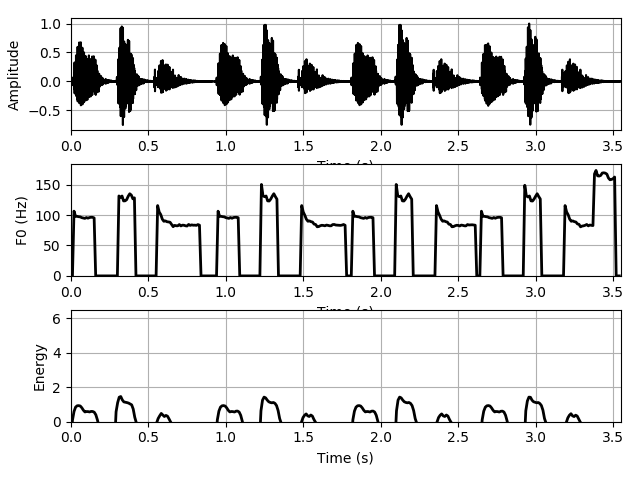
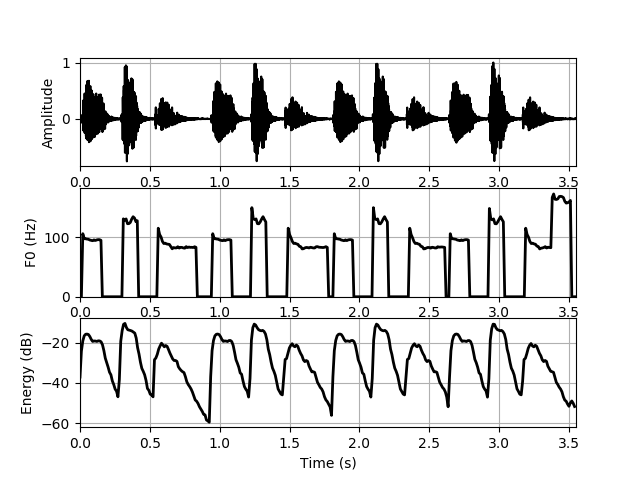
new prosody features

diff --git a/prosody/prosody.py b/prosody/prosody.py
@@ -1,9 +1,9 @@
 
 # -*- coding: utf-8 -*-
 """
-Created on Jul 21 2017
+Created on Jul 21 2017, Modified Apr 10 2018.
 
-@author: J. C. Vasquez-Correa, T. Arias-Vergara
+@author: J. C. Vasquez-Correa, T. Arias-Vergara, J. S. Guerrero
 
 
 Compute prosody features from continuous speech based on duration, fundamental frequency and energy.
@@ -27,7 +27,20 @@ Static matrix is formed with 13 features and include
 11. Pause rate (number of pauses per second)
 12. Average duration of pauses
 13. Standard deviation of duration of pauses
-
+14. Average tilt of fundamental frequency
+15. Tilt regularity of fundamental frequency
+16. Mean square error of the reconstructed F0 with a  1-degree polynomial
+17. (Silence duration)/(Voiced+Unvoiced durations)
+18. (Voiced duration)/(Unvoiced durations)
+19. (Unvoiced duration)/(Voiced+Unvoiced durations)
+20. (Voiced duration)/(Voiced+Unvoiced durations)
+21. (Voiced duration)/(Silence durations)
+22. (Unvoiced duration)/(Silence durations)
+23. Unvoiced duration Regularity
+24. Unvoiced energy Regularity
+25. Voiced duration Regularity
+26. Voiced energy Regularity
+27. Pause duration Regularity
 
 Dynamic matrix is formed with 13 features computed for each voiced segment and contains
 
@@ -279,7 +292,6 @@ def prosody_static(audio, flag_plots):
         fsp=len(F0)/t[-1]
         print(fsp)
         t2=np.arange(0.0, t[-1], 1.0/fsp)
-        print(len(t2), len(F0))
         if len(t2)>len(F0):
             t2=t2[:len(F0)]
         elif len(F0)>len(t2):
@@ -297,11 +309,10 @@ def prosody_static(audio, flag_plots):
             t3=t3[:len(logE)]
         elif len(logE)>len(t3):
             logE=logE[:len(t3)]
-        print(len(t3), len(logE))
         plt.plot(t3, logE, color='k', linewidth=2.0)
         plt.xlabel('Time (s)')
-        plt.ylabel('Energy')
-        plt.ylim([0,np.max(logE)+5])
+        plt.ylabel('Energy (dB)')
+        #plt.ylim([0,np.max(logE)])
         plt.xlim([0, t[-1]])
         plt.grid(True)
         plt.show()
@@ -310,6 +321,161 @@ def prosody_static(audio, flag_plots):
     F0varsemi=Hz2semitones(F0std**2)
 
     return F0, logE, np.mean(F0[F0!=0]), np.std(F0[F0!=0]), np.max(F0), 10*np.log10(np.mean(logE)), 10*np.log10(np.std(logE)), 10*np.log10(np.max(logE)), Vrate, avgdurv, stddurv, Silrate, avgdurs, stddurs, F0varsemi
+
+def intonation_duration(audio,size_step=0.01,minf0=60,maxf0=350,stol=0.150, flag_plots=False):
+    fs, data_audio=read(audio)
+    temp_filename_f0='../tempfiles/pitchtemp.txt'
+    temp_filename_vuv='../tempfiles/voicetemp.txt'
+
+    praat_functions.praat_vuv(audio,temp_filename_f0,temp_filename_vuv,time_stepF0=size_step, minf0=minf0, maxf0=maxf0)
+    pitch_z,ttotal = praat_functions.decodeF0(temp_filename_f0,len(data_audio)/fs,size_step)
+
+    #Slopes
+    slopes=[]
+    #buffers for voiced and unvoiced segments
+    vbuffer=[]
+    ubuffer=[]
+    #energy for total voiced and unvoiced segments
+    venergy=[]
+    uenergy=[]
+    #arrays for time-storing
+    voicedtimes=[]
+    unvoicedtimes=[]
+    silencetimes=[]
+    #flag for starting point voiced time and unvoiced time
+    startvoicedflag=True
+    startUNvoicedflag=True
+    F0_rec=np.zeros(len(pitch_z))
+    for i in range(0,len(pitch_z)-1):
+        #condition for voiced segment
+        if pitch_z[i]>=minf0 and pitch_z[i]<=maxf0:
+            vbuffer.append(pitch_z[i])
+            #voiced segment starting time
+            if (startvoicedflag):
+                t_start_venergy=ttotal[i]
+                startvoicedflag=False
+                frameF0start=i
+
+            if len(ubuffer)!=0:
+                samples = len(ubuffer)
+                t=float(samples/1/size_step)#unvoiced time based on F0 Fs and actual samples
+                #silence condition
+                if t>stol:
+                    silencetimes.append(t)
+                else:
+                    unvoicedtimes.append(t)
+                #clear the mess
+                ubuffer=[]
+                #final time for unvoiced
+                t_end_uenergy=ttotal[i]
+                startUNvoicedflag=True
+                #calculate segments with obtained times
+                n_start_unvoiced=fs*t_start_uenergy
+                n_end_unvoiced=fs*t_end_uenergy
+                #energy of real audio segment based on fs and timestamp from F0
+                #store
+                uenergy.append(logEnergy(data_audio[int(n_start_unvoiced):int(n_end_unvoiced)]))
+        #start appending unvoiced segments
+        else:
+            if(len(vbuffer)!=0):
+                #based on F0 Fs and in buffer length, actual time is calculated
+                samples = len(vbuffer)
+                t=float(samples/1/size_step)
+                #pick up voiced times
+                voicedtimes.append(t)
+                #voiced segment slope process
+                #temporal x axis vector for slope calculation
+                xtemp_slope=[]
+                tempslope=np.array(vbuffer)
+                for j in range(0,len(vbuffer)):
+                    xtemp_slope.append(j)
+                #get slopes of voiced segments
+
+                pol=np.polyfit(xtemp_slope, tempslope,1)
+                slopes.append(pol[0])
+                #slopes.append(np.average(np.diff(tempslope)) / np.average(np.diff(xtemp_slope)))
+
+
+                #clear the mess
+
+                vbuffer=[]
+                tempslope=[]
+                #final time of voiced segment
+                t_end_venergy=ttotal[i]
+                frameF0end=i
+                F0_rec[int(frameF0start):int(frameF0end)]=pol[0]*np.asarray(xtemp_slope)+pol[1]
+                xtemp_slope=[]
+                startvoicedflag=True
+                #calculate how many segments are in voiced time on the original audio file, based on start-end time stamps
+                n_start_voiced=fs*t_start_venergy
+                n_end_voiced=fs*t_end_venergy
+                #calculate energy and make venergy append the result
+                venergy.append(logEnergy(data_audio[int(n_start_voiced):int(n_end_voiced)]))
+            else:
+                ubuffer.append(pitch_z[i])
+                #initial time of unvoiced segment
+                if (startUNvoicedflag):
+                    t_start_uenergy=ttotal[i]
+                    startUNvoicedflag=False
+
+
+
+    voicedtimes=np.array(voicedtimes)
+    unvoicedtimes=np.array(unvoicedtimes)
+    silencetimes=np.array(silencetimes)
+    uenergy=np.array(uenergy)
+    venergy=np.array(venergy)
+    """Measures"""
+    """Intonation"""
+    avgF0slopes=np.average(slopes)# 1. average F0 slope
+    stdF0slopes=np.std(slopes)# 2. std F0 slope
+    """Duration"""
+    if((silencetimes.size>0)):
+        SVU=(np.sum(silencetimes))/(np.sum(voicedtimes)+np.sum(unvoicedtimes))#  3.S/(V+U)
+    else:
+        SVU=0
+    VU=(np.sum(voicedtimes))/np.sum(unvoicedtimes)#  4.V/U
+    UVU=np.sum(unvoicedtimes)/(np.sum(voicedtimes)+np.sum(unvoicedtimes))#  5.U/(V+U)
+    VVU=np.sum(voicedtimes)/(np.sum(voicedtimes)+np.sum(unvoicedtimes))#  6.V/V+U
+    #si no hay silencios hay que prevenir dividir por cero
+    if((silencetimes.size>0)):
+        VS=np.sum(voicedtimes)/np.sum(silencetimes)# 7. V/S
+        US=np.sum(unvoicedtimes)/np.sum(silencetimes)# 8. U/S
+    else:
+        VS=0
+        US=0
+
+    URD=np.std(unvoicedtimes)# 9. (std U)
+    VRD=np.std(voicedtimes)# 10. (std V)
+
+    URE=np.std(uenergy) # 11. (std Energy U) wtf
+    VRE=np.std(venergy) # 12. (std Energy V)
+    MSEF0=np.mean((np.asarray(pitch_z)-np.asarray(F0_rec))**2)
+    if ((silencetimes.size>0)):# 13. (std S)
+        PR=np.std(silencetimes)
+    else:
+        PR=0
+
+    os.remove(temp_filename_f0)
+    os.remove(temp_filename_vuv)
+
+
+    if flag_plots:
+        plt.figure(1)
+        plt.plot(ttotal, pitch_z, label="F0 (Hz)", linewidth=2.0)
+        plt.plot(ttotal,F0_rec, label="Linear regresion F0", linewidth=2.0)
+        plt.text(min(ttotal), max(pitch_z)-5, "MSE="+str(np.round(MSEF0,3)))
+        plt.text(min(ttotal), max(pitch_z)-10, "Avg. tilt="+str(np.round(avgF0slopes,3)))
+        plt.text(min(ttotal), max(pitch_z)-15, "Std. tilt="+str(np.round(stdF0slopes,3)))
+        plt.xlabel("Time (s)")
+        plt.ylabel("Frequency (Hz)")
+        plt.legend()
+
+        plt.grid(True)
+        plt.show()
+
+
+    return avgF0slopes,stdF0slopes,MSEF0, SVU,VU,UVU,VVU,VS,US,URD,VRD,URE,VRE,PR
 
 
 
@@ -400,7 +566,8 @@ if __name__=="__main__":
 
         if flag_static=="static":
             F0, logE, mF0, sF0, mmF0, mlogE, slogE, mmlogE, Vrate, avgdurv, stddurv, Silrate, avgdurs, stddurs, F0varsemi=prosody_static(audio_file, flag_plots)
-            feat_vec=[mF0, sF0, F0varsemi, mmF0, mlogE, slogE, mmlogE, Vrate, avgdurv, stddurv, Silrate, avgdurs, stddurs]
+            avgF0slopes, stdF0slopes, MSEF0, SVU , VU ,UVU ,VVU ,VS ,US ,URD,VRD ,URE,VRE ,PR = intonation_duration(audio_file, flag_plots=flag_plots)
+            feat_vec=[mF0, sF0, F0varsemi, mmF0, mlogE, slogE, mmlogE, Vrate, avgdurv, stddurv, Silrate, avgdurs, stddurs, avgF0slopes, stdF0slopes, MSEF0, SVU , VU ,UVU ,VVU ,VS ,US ,URD,VRD ,URE,VRE ,PR]
             if flag_kaldi:
                 key=hf[k].replace('.wav', '')
                 Features[key]=np.asarray(feat_vec)

diff --git a/prosody/prosody_functions.py b/prosody/prosody_functions.py
@@ -38,5 +38,5 @@ def E_cont(seg,size_frameS,size_stepS,overlap):
 def logEnergy(sig):
     sig2=np.power(sig,2)
     sumsig2=np.sum(np.absolute(sig2))/len(sig2)
-    logE=np.log10(sumsig2)
+    logE=10*np.log10(sumsig2)
     return logE

diff --git a/prosody/README.md b/prosody/README.md
@@ -19,10 +19,25 @@ The static feaature vector is formed with 13 features and include
 7. Maximum energy
 8. Voiced rate (number of voiced segments per second)
 9. Average duration of voiced segments
-10. Standard deviation of duratin of voiced segments
+10. Standard deviation of duration of voiced segments
 11. Pause rate (number of pauses per second)
 12. Average duration of pauses
 13. Standard deviation of duration of pauses
+ <br /> NEW MEASURES <br />
+14. Average tilt of fundamental frequency
+15. Tilt regularity of fundamental frequency
+16. Mean square error of the reconstructed F0 with a  1-degree polynomial
+17. (Silence duration)/(Voiced+Unvoiced durations)
+18. (Voiced duration)/(Unvoiced durations)
+19. (Unvoiced duration)/(Voiced+Unvoiced durations)
+20. (Voiced duration)/(Voiced+Unvoiced durations)
+21. (Voiced duration)/(Silence durations)
+22. (Unvoiced duration)/(Silence durations)
+23. Unvoiced duration Regularity
+24. Unvoiced energy Regularity
+25. Voiced duration Regularity
+26. Voiced energy Regularity
+27. Pause duration Regularity
 
 
 The dynamic feature matrix is formed with 13 features computed for each voiced segment and contains:
@@ -60,6 +75,9 @@ python prosody.py "/home/camilo/Camilo/data/BDKayElemetrics/Norm/Rainbow/" "feat
 
 Prosody analysis from continuous speech static
 ![Image](https://github.com/jcvasquezc/DisVoice/blob/master/images/prosody1.png?Raw=true)
+
+![Image](https://github.com/jcvasquezc/DisVoice/blob/master/images/prosody3.png?Raw=true)
+
 
 Prosody analysis from continuous speech dynamic
 ![Image](https://github.com/jcvasquezc/DisVoice/blob/master/images/prosody2.png?raw=true)
